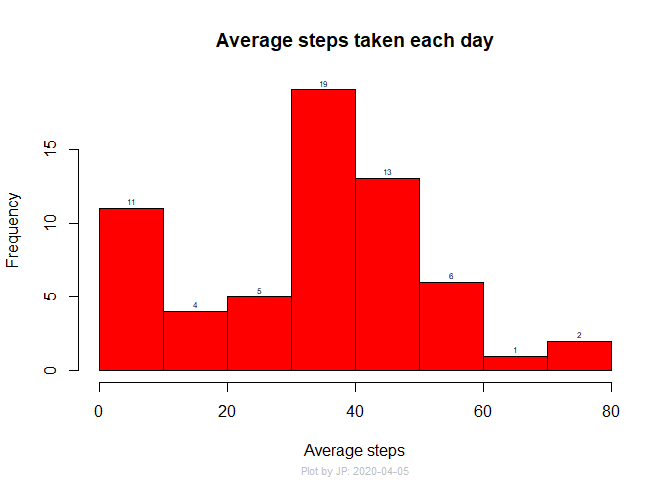
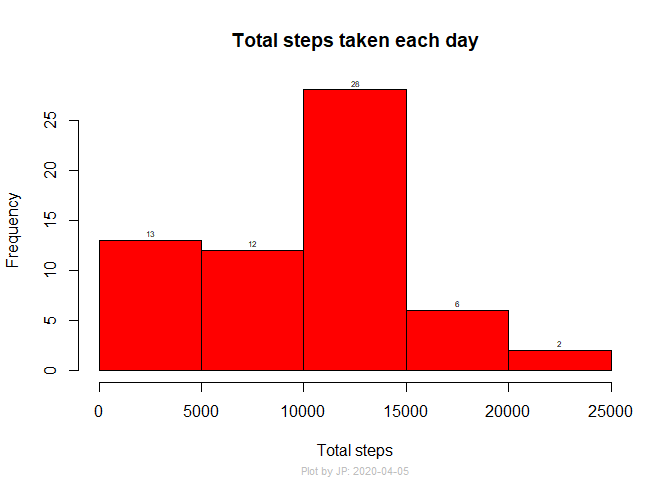
Some minor corrections.

diff --git a/PA1_template.html b/PA1_template.html
@@ -366,10 +366,11 @@ summary {
 </div>
 
 
-<div id="loading-required-libraries" class="section level2">
-<h2>Loading required libraries</h2>
+<div id="loading-required-libraries-and-setup" class="section level2">
+<h2>Loading required libraries and setup</h2>
 <pre class="r"><code>library(dplyr)
-library(lattice)</code></pre>
+library(lattice)
+options(scipen=999)</code></pre>
 </div>
 <div id="loading-and-preprocessing-the-data" class="section level2">
 <h2>Loading and preprocessing the data</h2>
@@ -387,18 +388,18 @@ tdf_ad &lt;- tdf_ad %&gt;%
 </div>
 <div id="what-is-mean-total-number-of-steps-taken-per-day" class="section level2">
 <h2>What is mean total number of steps taken per day?</h2>
-<p>Prepare data to show average steps per day:</p>
+<p>Prepare data to show total steps per day:</p>
 <pre class="r"><code>tdf_adm &lt;- tdf_ad %&gt;% 
     select(DATE, STEPS) %&gt;% 
     filter(!is.na(STEPS)) %&gt;% 
     group_by(DATE) %&gt;% 
-    summarise(STEPS = mean(STEPS))</code></pre>
-<p>Histogram of average steps taken each day:</p>
+    summarise(STEPS = sum(STEPS))</code></pre>
+<p>Histogram of total steps taken each day:</p>
 <pre class="r"><code>par(col.sub = &quot;grey&quot;, cex.sub = 0.7)
 hist &lt;- with(tdf_adm, hist(STEPS, col = &quot;Red&quot;, 
-          xlab = &quot;Average steps&quot;, 
+          xlab = &quot;Total steps&quot;, 
           ylab = &quot;Frequency&quot;, 
-          main = &quot;Average steps taken each day&quot;, 
+          main = &quot;Total steps taken each day&quot;, 
           sub = paste(&quot;Plot by JP: &quot;, Sys.Date(), sep = &quot;&quot;)))
 with(hist, text(x = mids, 
                 y = counts, 
@@ -406,9 +407,9 @@ with(hist, text(x = mids,
                 cex = 0.5, 
                 pos = 3, 
                 offset = 0.20))</code></pre>
[1 lines of base64/hex data omitted]
-<p>Mean of steps taken per day: <strong>37.3825996</strong></p>
-<p>Median of steps taken per day: <strong>37.3784722</strong></p>
[1 lines of base64/hex data omitted]
+<p>Mean of steps taken per day: <strong>10766.1886792</strong></p>
+<p>Median of steps taken per day: <strong>10765</strong></p>
 </div>
 <div id="what-is-the-average-daily-activity-pattern" class="section level2">
 <h2>What is the average daily activity pattern?</h2>
@@ -459,18 +460,18 @@ with(tdf_admi, plot(INTERVAL, STEPS,
                                                %in% inads$INTERVAL)]]
     }
 }</code></pre>
-<p>Prepare data to show average steps per day with missing values imputed:</p>
+<p>Prepare data to show total steps per day with missing values imputed:</p>
 <pre class="r"><code>tdf_admdm &lt;- tdf_admd %&gt;% 
     select(STEPS, DATE) %&gt;% 
     filter(!is.na(STEPS)) %&gt;% 
     group_by(DATE) %&gt;% 
-    summarise(STEPS = mean(STEPS))</code></pre>
-<p>Histogram of average steps taken each day with missing values imputed:</p>
+    summarise(STEPS = sum(STEPS))</code></pre>
+<p>Histogram of total steps taken each day with missing values imputed:</p>
 <pre class="r"><code>par(col.sub = &quot;grey&quot;, cex.sub = 0.7)
 hist &lt;- with(tdf_admdm, hist(STEPS, col = &quot;Red&quot;, 
-          xlab = &quot;Average steps&quot;, 
+          xlab = &quot;Total steps&quot;, 
           ylab = &quot;Frequency&quot;, 
-          main = &quot;Average steps taken each day&quot;, 
+          main = &quot;Total steps taken each day&quot;, 
           sub = paste(&quot;Plot by JP: &quot;, Sys.Date(), sep = &quot;&quot;)))
 with(hist, text(x = mids, 
                 y = counts, 
@@ -478,10 +479,10 @@ with(hist, text(x = mids,
                 cex = 0.5, 
                 pos = 3, 
                 offset = 0.20))</code></pre>
[1 lines of base64/hex data omitted]
-<p>Mean of steps taken per day: <strong>32.4799636</strong></p>
-<p>Median of steps taken per day: <strong>36.09375</strong></p>
-<p><strong>Comparing from previous data we can see that the mean of steps taken per day drops a few units after imputing the missing values.</strong></p>
[1 lines of base64/hex data omitted]
+<p>Mean of steps taken per day: <strong>9354.2295082</strong></p>
+<p>Median of steps taken per day: <strong>10395</strong></p>
+<p><strong>Comparing from previous data we can see that the mean of steps taken per day increases by a few Kilo units after imputing the missing values.</strong></p>
 </div>
 </div>
 <div id="are-there-differences-in-activity-patterns-between-weekdays-and-weekends" class="section level2">

diff --git a/PA1_template.md b/PA1_template.md
@@ -5,12 +5,13 @@ output:
     keep_md: true
 ---
 
-## Loading required libraries
+## Loading required libraries and setup
 
 
 ```r
 library(dplyr)
 library(lattice)
+options(scipen=999)
 ```
 
 ## Loading and preprocessing the data
@@ -37,24 +38,24 @@ tdf_ad <- tdf_ad %>%
 
 ## What is mean total number of steps taken per day?
 
-Prepare data to show average steps per day:
+Prepare data to show total steps per day:
 
 ```r
 tdf_adm <- tdf_ad %>% 
     select(DATE, STEPS) %>% 
     filter(!is.na(STEPS)) %>% 
     group_by(DATE) %>% 
-    summarise(STEPS = mean(STEPS))
+    summarise(STEPS = sum(STEPS))
 ```
 
-Histogram of average steps taken each day:
+Histogram of total steps taken each day:
 
 ```r
 par(col.sub = "grey", cex.sub = 0.7)
 hist <- with(tdf_adm, hist(STEPS, col = "Red", 
-          xlab = "Average steps", 
+          xlab = "Total steps", 
           ylab = "Frequency", 
-          main = "Average steps taken each day", 
+          main = "Total steps taken each day", 
           sub = paste("Plot by JP: ", Sys.Date(), sep = "")))
 with(hist, text(x = mids, 
                 y = counts, 
@@ -66,9 +67,9 @@ with(hist, text(x = mids,
 
 ![](PA1_template_files/figure-html/unnamed-chunk-5-1.png)<!-- -->
 
-Mean of steps taken per day: **37.3825996**
+Mean of steps taken per day: **10766.1886792**
 
-Median of steps taken per day: **37.3784722**
+Median of steps taken per day: **10765**
 
 ## What is the average daily activity pattern?
 
@@ -138,24 +139,24 @@ for (i in ina) {
 }
 ```
 
-Prepare data to show average steps per day with missing values imputed:
+Prepare data to show total steps per day with missing values imputed:
 
 ```r
 tdf_admdm <- tdf_admd %>% 
     select(STEPS, DATE) %>% 
     filter(!is.na(STEPS)) %>% 
     group_by(DATE) %>% 
-    summarise(STEPS = mean(STEPS))
+    summarise(STEPS = sum(STEPS))
 ```
 
-Histogram of average steps taken each day with missing values imputed:
+Histogram of total steps taken each day with missing values imputed:
 
 ```r
 par(col.sub = "grey", cex.sub = 0.7)
 hist <- with(tdf_admdm, hist(STEPS, col = "Red", 
-          xlab = "Average steps", 
+          xlab = "Total steps", 
           ylab = "Frequency", 
-          main = "Average steps taken each day", 
+          main = "Total steps taken each day", 
           sub = paste("Plot by JP: ", Sys.Date(), sep = "")))
 with(hist, text(x = mids, 
                 y = counts, 
@@ -167,11 +168,11 @@ with(hist, text(x = mids,
 
 ![](PA1_template_files/figure-html/unnamed-chunk-14-1.png)<!-- -->
 
-Mean of steps taken per day: **32.4799636**
+Mean of steps taken per day: **9354.2295082**
 
-Median of steps taken per day: **36.09375**
+Median of steps taken per day: **10395**
 
-**Comparing from previous data we can see that the mean of steps taken per day drops a few units after imputing the missing values.**
+**Comparing from previous data we can see that the mean of steps taken per day increases by a few Kilo units after imputing the missing values.**
 
 ## Are there differences in activity patterns between weekdays and weekends?
 
